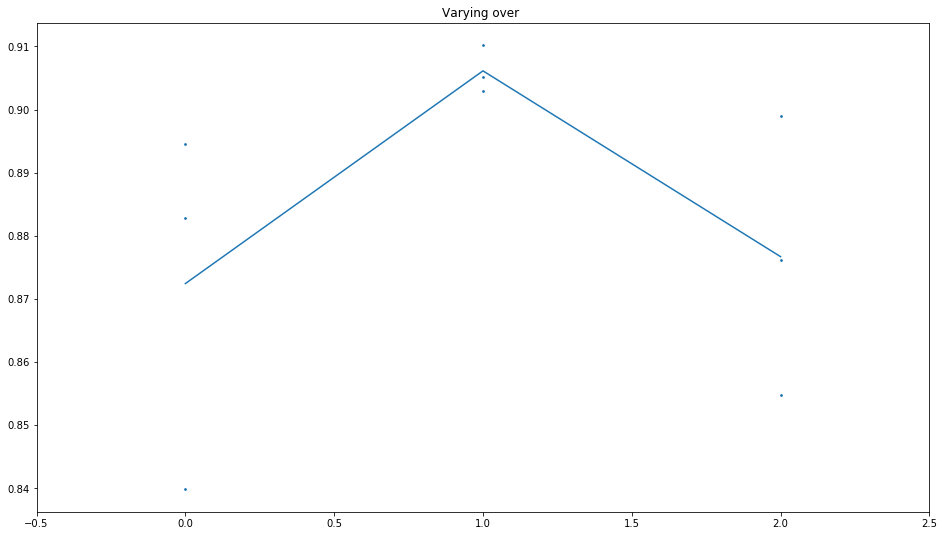
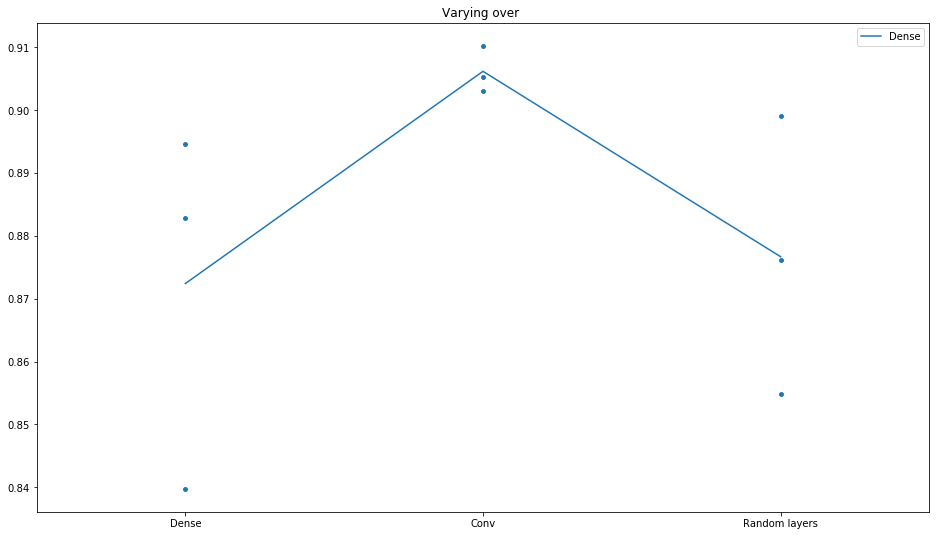
add figures to report

diff --git a/documents/report/report.tex b/documents/report/report.tex
@@ -60,21 +60,42 @@
 	For the training we use Adam optimizer and early stopping callback to stop learning after evaluation loss does not change much.
 	
 	\section{Results}
-	On MNIST dataset we data to training and test data set in ratio 8:1. We train every architecture one time. The loss function is sparse categorical crossentropy (higher is better). Best dense configuration had performance 0.89\%, best convolution configuration had 0.91\% and with added random layers best performance was 89\%. In (Fig 1) can be seen plot with data point for every configuration. On plot we see means of every type of architecture. After adding random layers the performance dropped.
+	On MNIST dataset we data to training and test data set in ratio 8:1. We train every architecture one time. The loss function is sparse categorical crossentropy (higher is better). Best dense configuration had performance 0.89\%, best convolution configuration had 0.91\% and with added random layers best performance was 89\%. In \ref{fig:result1} can be seen plot with data point for every configuration. On plot we see means of every type of architecture. After adding random layers the performance dropped.
 	
-	On Census income we use K-fold evaluation and we split data to 10 parts and every architecture configuration train for 10 times. In regression task loss is mean squared error(lower is better). In (Fig 2) we can see that mean of results is similar even if we add 1 or 2 random layer. We also go deeper with random layers with using residual random layers. We evaluate architectures with 10, 20, 30 and 40 residual random layers. Results are in (Fig 3) and there are not much difference when we add more random layers.
+	On Census income we use K-fold evaluation and we split data to 10 parts and every architecture configuration train for 10 times. In regression task loss is mean squared error(lower is better). In \ref{fig:result2} we can see that mean of results is similar even if we add 1 or 2 random layer. We also go deeper with random layers with using residual random layers. We evaluate architectures with 10, 20, 30 and 40 residual random layers. Results are in \ref{fig:result3} and there are not much difference when we add more random layers.
 	
-	On Census income on classification task we take same models as in regression. We use sparse categorical crossentropy loss. Results are in (Fig 4). Best models have similar results even after adding random layer, but we can see mean is smaller for architectures without random layer and that is because few models has low performance, so we can see that stability of training went up after adding random layer.	
-	
-	\section{Discussion}
-	From results we can say that adding few random layers does not improve performance. Mean performance of models went a little bit down after adding these layers. Same happen when we add lots of residual random layer. In classification task of census income models without any random layer happened have lower performance in some cases, but after adding random layer we have not see it. From that we conclude that in some cases random layers can improve stability of training.
+	On Census income on classification task we take same models as in regression. We use sparse categorical crossentropy loss. Results are in \ref{fig:result4}. Best models have similar results even after adding random layer, but we can see mean is smaller for architectures without random layer and that is because few models has low performance, so we can see that stability of training went up after adding random layer.	
 	
 	\begin{Figure}
 		\centering
-		\includegraphics[width=\linewidth]{index.png}
-		\captionof{figure}{Abc}
-		\label{fig:result}
+		\includegraphics[width=\linewidth]{figure1.png}
+		\captionof{figure}{MNIST}
+		\label{fig:result1}
 	\end{Figure}
+
+	\begin{Figure}
+		\centering
+		\includegraphics[width=\linewidth]{figure2.png}
+		\captionof{figure}{Census income regression}
+		\label{fig:result2}
+	\end{Figure}
+	
+	\begin{Figure}
+		\centering
+		\includegraphics[width=\linewidth]{figure3.png}
+		\captionof{figure}{Census income regression residual layers}
+		\label{fig:result3}
+	\end{Figure}
+	
+	\begin{Figure}
+		\centering
+		\includegraphics[width=\linewidth]{figure4.png}
+		\captionof{figure}{Census income classification}
+		\label{fig:result4}
+	\end{Figure}
+	
+	\section{Discussion}
+	From results we can say that adding few random layers does not improve performance. Mean performance of models went a little bit down after adding these layers. Same happen when we add lots of residual random layer. In classification task of census income models without any random layer happened have lower performance in some cases, but after adding random layer we have not see it. From that we conclude that in some cases random layers can improve stability of training.
 	
 	\section{Summary}
 	In conclusion we proposed idea to memory limited implementation of random layers. We evaluated models with or without random layers on regression and classification tasks. We conclude that adding random layers does not change performance a much. In evaluation of classification task of census income dataset, we have seen that training stability was improved.
@@ -82,7 +103,5 @@
 	\bibliography{../bibliography}
 	\bibliographystyle{plain}
 \end{multicols}
-
-I refer to the image \ref{fig:result}.
 
 \end{document}
